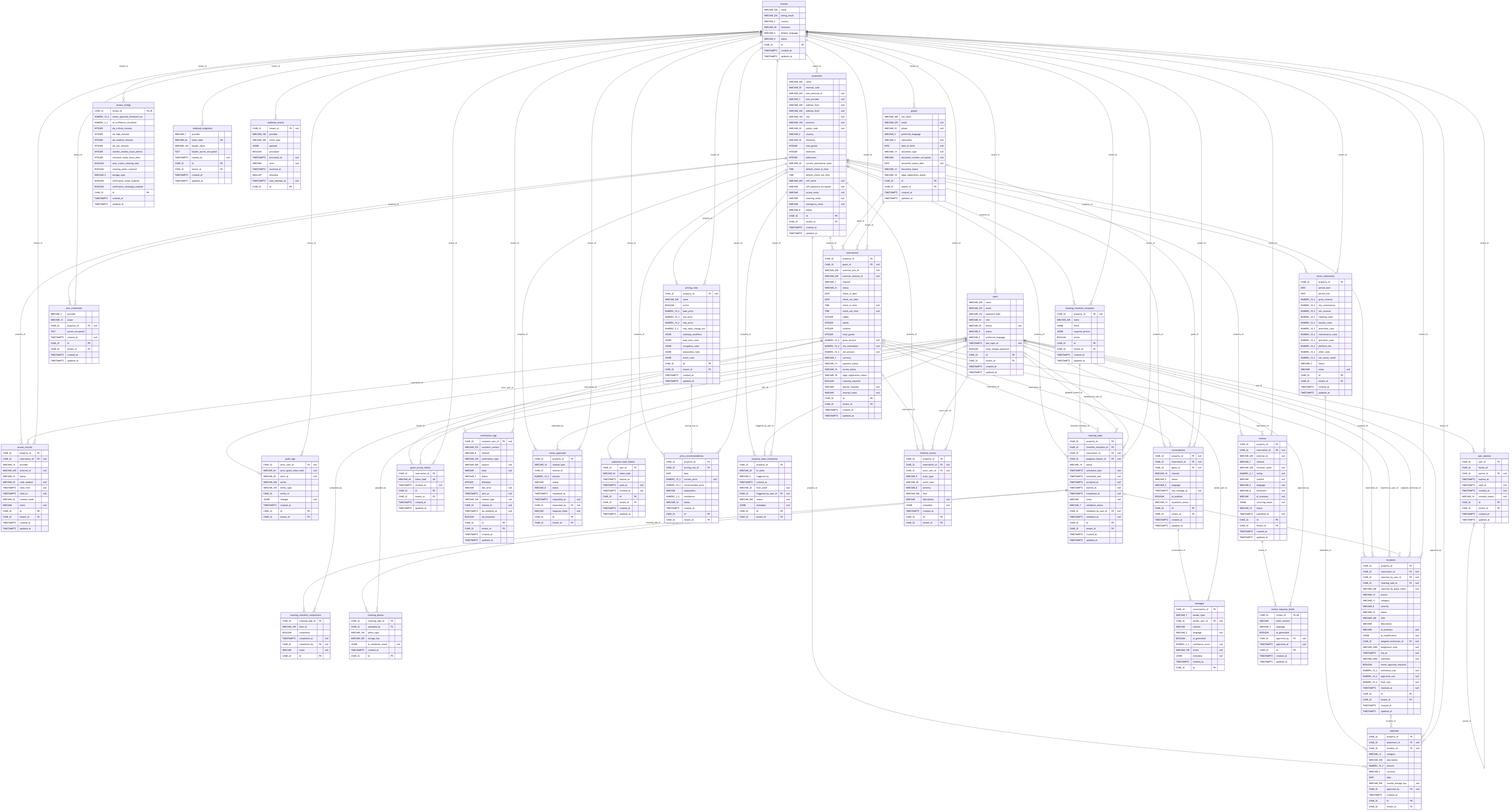
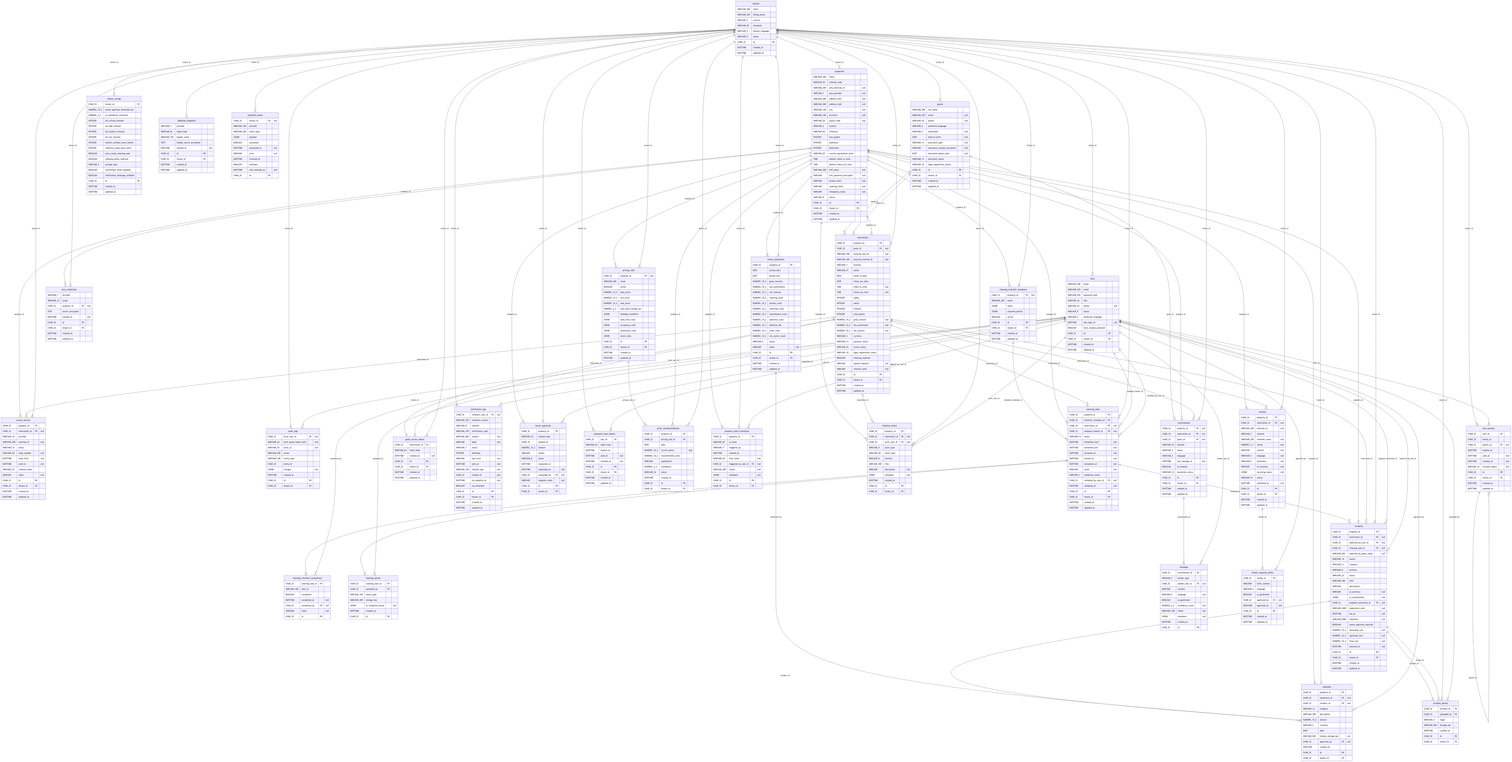
docs(maintenance): fotos de la incidencia y ER regenerado
- docs/maintenance.md — sección nueva «Las fotos de la incidencia»: las dos
  etapas, quién sube y quién lee, los tres 409, el tope y el formato por bytes,
  y por qué la URL firmada se abre en el navegador sin sesión. Se retira de «lo
  que este change no trae», que ya no es cierto, y se corrige el recuento de
  rutas cerradas a la limpiadora.
- docs/README.md, README.md — el almacén tiene dos llamantes y una capa de
  servido firmado compartida, no un llamante y dos consumidores prometidos.
- docs/diagrams/2026-08-23_autohost-er-entidades.png — regenerado desde la
  metadata de SQLAlchemy al entrar incident_photos: 32 entidades, 425 columnas,
  79 relaciones (77 pares), 82 flechas. Conserva el nombre porque se regenera
  el mismo día que el anterior, así que no hay PNG que borrar.

diff --git a/README.md b/README.md
@@ -281,7 +281,7 @@ A diferencia de la de firma, la de cifrado **no se regenera sola si ya hay un va
 
 ## Estructura
 
-- `backend/` — FastAPI + Celery (Python, `uv`). Dockerfile en `backend/devops/Dockerfile`. Código de dominio en `backend/app/<dominio>/` con las cuatro capas `domain/` → `application/` → `infrastructure/` → `api/` (regla de dependencia y fontanería en [`docs/adr/0004-backend-layering-pattern.md`](docs/adr/0004-backend-layering-pattern.md) y `sdd/steering/backend-architecture.md`). Son 17 dominios; los que todavía son **solo estructura de datos** —entidades y esquema, sin ningún caso de uso que los use— nacen con `domain/` + `infrastructure/` a secas, y ganan `application/`/`api/` cuando llega el primer caso de uso real: hoy `auth`, `properties`, `reservations`, `integrations`, `tenants`, `cleaning`, `access`, `guests`, `notifications`, `timeline`, `maintenance`, `messaging` y `pricing` son los que tienen las cuatro —`properties` ganó su `api/` con `properties-crud`; `access`, `guests` y `notifications` con `access-notifications`, que trajo la operación de accesos (PRD §15), el registro legal de huéspedes (§17) y la entrega de notificaciones (§14); y `timeline` con `dashboard-api`, que le añadió `application/` y `api/` de golpe: hasta entonces sus eventos los escribían los casos de uso de *otros* dominios y nadie los leía de vuelta (PRD §10). Ese mismo change añade el dominio **`dashboard`** —el decimoséptimo—, que es el lado de lectura del agregado de PRD §9 y el único con `domain/`, `application/` y `api/` pero **sin `infrastructure/` propia**: no tiene tabla ni entidad, compone los puertos de los otros siete dominios. **`maintenance` fue el caso simétrico y ya no lo es**: desde `guest-portal-api` tenía `domain/`, `application/` e `infrastructure/` y **ningún `api/`**, porque su único caso de uso —crear la incidencia que abre el huésped— se exponía por el router del portal. El change `maintenance` le da esa cuarta capa junto con el resto de su flujo: clasificación (automática por job y manual), triaje, aprobación de la propietaria por encima del umbral, asignación con plazo de SLA y el ciclo del técnico hasta el cierre. Son **dos routers y no uno** —`/incidents` y `/owner-approvals`— porque son dos agregados: una incidencia puede levantar dos aprobaciones, la del presupuesto y la del coste real (ver [`docs/maintenance.md`](docs/maintenance.md)). **`messaging` es el caso siguiente**: desde `domain-foundation-ops` tenía `domain/` + `infrastructure/` y ningún escritor, y el change `messaging-ai` le da `application/` y `api/` con la atención de primer nivel al huésped de PRD §13 — detección de idioma, clasificación de intent, seis condiciones de escalación, respuesta desde un catálogo cerrado de plantillas y los siete endpoints de bandeja de PRD §16, bajo un solo router `/conversations` porque `Conversation` es el agregado y un mensaje no tiene identidad fuera de su hilo. Los mensajes entran por el panel o por la API: **no hay ingesta automática desde OTA**, y una conversación de `AIRBNB_MSG`/`BOOKING_MSG` queda muda a propósito hasta que llegue `beds24-messaging-adapter` (ver [`docs/messaging-ai.md`](docs/messaging-ai.md)). **`pricing` es el último en ganar las cuatro capas**: desde `domain-foundation-financial` tenía `domain/` + `infrastructure/` y ningún escritor, y el change `revenue-pricing` le da `application/` y `api/` con el Modo 1 del PRD §19 — la fórmula determinista de PRD §7.17 con sus guardrails, un horizonte de 60 días por vivienda y la aprobación humana de cada precio. **El sistema recomienda y no publica**: quien aprueba sube el precio a la OTA a mano y lo marca `APPLIED_EXTERNAL`. Son **dos routers** —`/pricing-rules` y `/price-recommendations`— porque son dos agregados: la regla que edita una persona y el horizonte que reescribe el job nocturno (ver [`docs/pricing.md`](docs/pricing.md)). El **scheduler** vive en `backend/app/scheduler/` — capa de entrega para el reloj, el equivalente de `api/` para Celery beat: nueve tareas —las cuatro de PRD §8.3 más `dispatch_notifications`, `provision_access_records`, `process_webhook_events` y `classify_incidents`, que el PRD no nombra y declaran como divergencia `access-notifications`, `reservations-webhooks` y `maintenance`, más `generate_price_recommendations`, que **sí** es de PRD §8.3 y es la única que corre a una hora del día (06:00 UTC) en vez de por cadencia—, su calendario y el lock que evita solapes (ver [`docs/celery-jobs.md`](docs/celery-jobs.md)). Comandos operativos en `backend/app/cli/` y `backend/app/integrations/cli/`; adapters de sistemas externos en `backend/app/integrations/`, que además guarda las tablas `webhook_endpoints` y `webhook_events`; migraciones en `backend/alembic/`. Dentro de `integrations` vive también **`app/integrations/infrastructure/storage/`** — el almacenamiento de ficheros, con `LocalFileStorage` (escribe en el volumen `/app/media`) y `S3FileStorage` detrás del mismo puerto, y la factoría que elige uno u otro por el `storage_type` del tenant. Está en `integrations` y no en `cleaning` porque el puerto es compartido: las fotos de limpieza son hoy su único llamante, pero `maintenance` y `revenue` servirán sus propios objetos por él (ver [`docs/cleaning.md`](docs/cleaning.md)). **`backend/scripts/`** queda deliberadamente **fuera de `app/`**: son herramientas de un solo uso contra servicios externos (provisión y sondeo del sandbox de Channex — ver [`docs/channex-staging.md`](docs/channex-staging.md)) o de medición puntual (`measure_tenant_filter.py`) que no deben viajar en el paquete desplegado.
+- `backend/` — FastAPI + Celery (Python, `uv`). Dockerfile en `backend/devops/Dockerfile`. Código de dominio en `backend/app/<dominio>/` con las cuatro capas `domain/` → `application/` → `infrastructure/` → `api/` (regla de dependencia y fontanería en [`docs/adr/0004-backend-layering-pattern.md`](docs/adr/0004-backend-layering-pattern.md) y `sdd/steering/backend-architecture.md`). Son 17 dominios; los que todavía son **solo estructura de datos** —entidades y esquema, sin ningún caso de uso que los use— nacen con `domain/` + `infrastructure/` a secas, y ganan `application/`/`api/` cuando llega el primer caso de uso real: hoy `auth`, `properties`, `reservations`, `integrations`, `tenants`, `cleaning`, `access`, `guests`, `notifications`, `timeline`, `maintenance`, `messaging` y `pricing` son los que tienen las cuatro —`properties` ganó su `api/` con `properties-crud`; `access`, `guests` y `notifications` con `access-notifications`, que trajo la operación de accesos (PRD §15), el registro legal de huéspedes (§17) y la entrega de notificaciones (§14); y `timeline` con `dashboard-api`, que le añadió `application/` y `api/` de golpe: hasta entonces sus eventos los escribían los casos de uso de *otros* dominios y nadie los leía de vuelta (PRD §10). Ese mismo change añade el dominio **`dashboard`** —el decimoséptimo—, que es el lado de lectura del agregado de PRD §9 y el único con `domain/`, `application/` y `api/` pero **sin `infrastructure/` propia**: no tiene tabla ni entidad, compone los puertos de los otros siete dominios. **`maintenance` fue el caso simétrico y ya no lo es**: desde `guest-portal-api` tenía `domain/`, `application/` e `infrastructure/` y **ningún `api/`**, porque su único caso de uso —crear la incidencia que abre el huésped— se exponía por el router del portal. El change `maintenance` le da esa cuarta capa junto con el resto de su flujo: clasificación (automática por job y manual), triaje, aprobación de la propietaria por encima del umbral, asignación con plazo de SLA y el ciclo del técnico hasta el cierre. Son **dos routers y no uno** —`/incidents` y `/owner-approvals`— porque son dos agregados: una incidencia puede levantar dos aprobaciones, la del presupuesto y la del coste real (ver [`docs/maintenance.md`](docs/maintenance.md)). **`messaging` es el caso siguiente**: desde `domain-foundation-ops` tenía `domain/` + `infrastructure/` y ningún escritor, y el change `messaging-ai` le da `application/` y `api/` con la atención de primer nivel al huésped de PRD §13 — detección de idioma, clasificación de intent, seis condiciones de escalación, respuesta desde un catálogo cerrado de plantillas y los siete endpoints de bandeja de PRD §16, bajo un solo router `/conversations` porque `Conversation` es el agregado y un mensaje no tiene identidad fuera de su hilo. Los mensajes entran por el panel o por la API: **no hay ingesta automática desde OTA**, y una conversación de `AIRBNB_MSG`/`BOOKING_MSG` queda muda a propósito hasta que llegue `beds24-messaging-adapter` (ver [`docs/messaging-ai.md`](docs/messaging-ai.md)). **`pricing` es el último en ganar las cuatro capas**: desde `domain-foundation-financial` tenía `domain/` + `infrastructure/` y ningún escritor, y el change `revenue-pricing` le da `application/` y `api/` con el Modo 1 del PRD §19 — la fórmula determinista de PRD §7.17 con sus guardrails, un horizonte de 60 días por vivienda y la aprobación humana de cada precio. **El sistema recomienda y no publica**: quien aprueba sube el precio a la OTA a mano y lo marca `APPLIED_EXTERNAL`. Son **dos routers** —`/pricing-rules` y `/price-recommendations`— porque son dos agregados: la regla que edita una persona y el horizonte que reescribe el job nocturno (ver [`docs/pricing.md`](docs/pricing.md)). El **scheduler** vive en `backend/app/scheduler/` — capa de entrega para el reloj, el equivalente de `api/` para Celery beat: nueve tareas —las cuatro de PRD §8.3 más `dispatch_notifications`, `provision_access_records`, `process_webhook_events` y `classify_incidents`, que el PRD no nombra y declaran como divergencia `access-notifications`, `reservations-webhooks` y `maintenance`, más `generate_price_recommendations`, que **sí** es de PRD §8.3 y es la única que corre a una hora del día (06:00 UTC) en vez de por cadencia—, su calendario y el lock que evita solapes (ver [`docs/celery-jobs.md`](docs/celery-jobs.md)). Comandos operativos en `backend/app/cli/` y `backend/app/integrations/cli/`; adapters de sistemas externos en `backend/app/integrations/`, que además guarda las tablas `webhook_endpoints` y `webhook_events`; migraciones en `backend/alembic/`. Dentro de `integrations` vive también **`app/integrations/infrastructure/storage/`** — el almacenamiento de ficheros, con `LocalFileStorage` (escribe en el volumen `/app/media`) y `S3FileStorage` detrás del mismo puerto, y la factoría que elige uno u otro por el `storage_type` del tenant. Está en `integrations` y no en `cleaning` porque el puerto es compartido, y desde `incident-photos` (2026-08-23) esa razón ya está cobrada: sus llamantes son **dos** —las fotos de limpieza y las fotos de incidencia de `maintenance`—, y `revenue` (`expenses.receipt_storage_key`) sigue nombrado como el siguiente. Junto al almacenamiento vive también la **capa de servido firmado compartida** (`app/integrations/application/signed_serving.py` y `app/integrations/api/signed_media.py`): el cuerpo `403` constante, el `nosniff` y el `Cache-Control` derivado de la firma se escriben una vez y los dos dominios montan su ruta anónima con ella (ver [`docs/cleaning.md`](docs/cleaning.md) y [`docs/maintenance.md`](docs/maintenance.md)). **`backend/scripts/`** queda deliberadamente **fuera de `app/`**: son herramientas de un solo uso contra servicios externos (provisión y sondeo del sandbox de Channex — ver [`docs/channex-staging.md`](docs/channex-staging.md)) o de medición puntual (`measure_tenant_filter.py`) que no deben viajar en el paquete desplegado.
 - `frontend/` — Next.js App Router (TypeScript strict, Tailwind, shadcn/ui, TanStack Query, Zustand, react-i18next ES/EN). Application Shell organizado por capas `app/` → `features/` → `components/`·`lib/`. En `app/` vive además la **única pieza de servidor del frontend**: `app/api/[...path]/route.ts`, el proxy same-origin que reenvía `/api/` al backend por la red interna — es lo que hace que el navegador alcance la API sin exponer el backend, y su alcance está fijado por `app/proxy-scope.test.ts` ([`docs/ingress-https.md`](docs/ingress-https.md)). Convenciones detalladas en [`frontend/README.md`](frontend/README.md). Dockerfile en `frontend/devops/Dockerfile`.
 - `docker-compose.yml` / `Makefile` — orquestación del stack **local** (build local, hot-reload), en la raíz.
 - `docker-compose.worktree.yml` — overlay que **retira la publicación de puertos** en el host. `make up` lo añade solo cuando detecta un worktree enlazado de git **y no se pidió desplazamiento**, para que varios stacks de desarrollo convivan sin chocar. El worktree principal no lo usa y el CD no lo ve nunca.

diff --git a/docs/maintenance.md b/docs/maintenance.md
@@ -89,6 +89,8 @@ y el técnico repite el cierre. Cerrarla por él haría que `resolved_at` dejara
 | Ver el contexto de una incidencia (a qué piso y cómo entrar) | ✔ | ✔ | ✔ sólo las suyas | — |
 | Clasificar, triar, asignar, cancelar | — | ✔ | — | — |
 | Aceptar, empezar, esperar piezas, reanudar, resolver | — | ✔ | ✔ sólo las suyas | — |
+| Ver las fotos de una incidencia | ✔ | ✔ | ✔ sólo las suyas | — |
+| Subir fotos a una incidencia (antes / después) | — | ✔ | ✔ sólo las suyas | — |
 | Responder una aprobación | ✔ | — | — | — |
 | Abrir una incidencia desde su propia limpieza | — | — | — | ✔ |
 
@@ -100,7 +102,7 @@ Tres cosas que no se ven en la tabla y conviene saber:
 - **El manager también puede conducir el ciclo del técnico**, para desatascar. Es la única
   diferencia con limpieza, donde ejecutar es sólo de la limpiadora.
 - **La limpiadora abre incidencias y no lee ninguna**, y esa fila de la tabla es toda su
-  relación con este módulo. Las once rutas de `/api/v1/incidents` le siguen respondiendo `403`;
+  relación con este módulo. Las quince rutas de `/api/v1/incidents` le siguen respondiendo `403`;
   lo que puede hacer vive en otro sitio y se describe abajo. **Con una señal indirecta que
   conviene no negar**: al cerrar su limpieza puede recibir un `409` que le dice que en esa
   vivienda hay una incidencia `CRITICAL` sin resolver. Es un bit —existe o no—, sin id, sin
@@ -135,6 +137,58 @@ Cómo se opera, y qué decide el sistema en lugar de quien llama:
 La incidencia nace `MEDIUM` y el cierre solo lo frena una `CRITICAL` sin resolver **en la
 vivienda**, así que empieza a bloquear si el clasificador la sube — o si ya había otra. El detalle
 está en [`cleaning.md`](cleaning.md).
+
+## Las fotos de la incidencia
+
+`POST` y `GET /api/v1/incidents/{incident_id}/photos`. PRD §6 le concede al técnico «subir fotos
+(antes y después)» y PRD §12 lo pide dos veces; esto es esa evidencia, y nada más. El *qué hace*
+está en [`sdd/specs/incident-photos.md`](../sdd/specs/incident-photos.md).
+
+**Dos etapas y sólo dos**: `BEFORE` (la de llegada) y `AFTER` (la de cierre). Es un enum cerrado,
+no un texto: cualquier otro valor responde `422`. A diferencia de las fotos de limpieza, aquí no
+hay plantilla que declare los tipos admisibles, así que el conjunto lo fija el dominio.
+
+Cómo se opera:
+
+- **Sube el técnico asignado**, y también el manager para desatascar. Se pide `EXECUTE_INCIDENTS`,
+  el mismo permiso que el resto de su ciclo — no hay permiso nuevo. La propietaria **no** sube.
+- **Lee quien puede leer la incidencia**: propietaria, manager y el técnico asignado
+  (`READ_INCIDENTS`). Leer la evidencia es lo que hacen los dos primeros; subirla es del técnico.
+- **Sólo mientras el trabajo está vivo**: con la incidencia en `IN_PROGRESS` o
+  `WAITING_EXTERNAL_PARTS`. Sobre una incidencia esperando la aprobación de la propietaria, o ya
+  resuelta o cancelada, responde `409` — con tres mensajes distintos, para que se sepa cuál de los
+  tres casos es— y **no escribe nada**: ni fila ni objeto.
+- **Varias fotos de la misma etapa valen.** Dos ángulos de la misma avería es el caso normal, no un
+  error.
+- **El formato se decide por los bytes**, nunca por lo que declare el cliente: fuera de la
+  allowlist es `422`, y por encima de 10 MB es `413` (el mismo tope que las fotos de limpieza,
+  aplicado **antes** de leer el cuerpo).
+- **El listado va de la más antigua a la más reciente**, y cada foto llega con una `url` firmada
+  **acuñada para esa respuesta**, con caducidad. No se guarda ni se comparte: cuando caduque, se
+  vuelve a listar. La clave interna del objeto (`storage_key`) no sale en ningún cuerpo.
+- Una incidencia inexistente, de otro tenant, o asignada a otro técnico dan el **mismo `404`**, con
+  el mismo cuerpo, igual que el resto del módulo.
+
+**La URL firmada se abre en el navegador sin sesión, y eso es a propósito.** Con el tenant en
+`storage_type = LOCAL` los bytes los sirve `GET /api/v1/incident-photos/{photo_id}`, que es
+**anónima**: un `<img src>` no manda cabecera `Authorization`, así que exigir el token haría la URL
+inservible para lo único que existe. **La firma es la credencial** — cubre la clave completa, que
+empieza por el `tenant_id`. Una firma inválida, caducada, manipulada o que nombre una foto que no
+existe dan todas el **mismo `403`**, con el mismo cuerpo, para que la ruta no sirva de sonda de qué
+fotos hay. Con el tenant en `S3` esa ruta responde `404`: el navegador va directo al proveedor.
+
+Dos avisos para quien opera:
+
+- **No hay borrado.** Ninguna ruta de la API borra una foto. Una subida por error se queda, y el
+  único borrado que existe es el compensatorio interno cuando la transacción falla después de
+  escribir el objeto. Habrá superficie de borrado cuando haya una decisión de retención, no antes.
+- **Cerrar no exige foto.** `resolve` sigue pidiendo únicamente `final_cost`, así que una incidencia
+  puede resolverse sin ninguna `AFTER`. Es una decisión, no un olvido: poner la puerta cambia la
+  tabla de transiciones y el contrato publicado.
+
+Cada subida deja su fila en `audit_logs` con actor e IP, contra la **propia foto** y no contra la
+incidencia — y **sin** la clave de almacenamiento. No genera evento de timeline: el vocabulario de
+PRD §10 no tiene un tipo para una foto de incidencia, y la subida de limpieza tampoco escribe uno.
 
 ## El job de clasificación
 
@@ -241,10 +295,15 @@ Cada transición deja su fila en `audit_logs` y su hito en el timeline de la pro
 
 ## Lo que este change no trae
 
-Fotos de la incidencia (el patrón es el de `cleaning-photos-storage`), el `Expense` al
-resolver (es de `revenue`), la expiración automática de una aprobación, la UI del técnico
-(`tech-app`), la detección del intent desde la mensajería (`messaging-ai`) y la alerta de
-cerradura como fuente. Cada uno tiene dueño declarado en el proposal del change.
+El `Expense` al resolver (es de `revenue`), la expiración automática de una aprobación, la UI del
+técnico (`tech-app`), la detección del intent desde la mensajería (`messaging-ai`) y la alerta de
+cerradura como fuente. Cada uno tiene dueño declarado en el proposal del change. **Las fotos de la
+incidencia sí llegaron**, con `incident-photos` (2026-08-23), y están descritas arriba: el patrón
+fue el de `cleaning-photos-storage`, como estaba previsto, y la capa de servido firmado se extrajo
+a `app/integrations/` para que los dos dominios la compartan en vez de duplicarla. Lo que **no**
+trajeron es validación por IA de la foto (`ai_validation_result` sigue sin escritor) ni foto en el
+alta de la incidencia: «fotos del incidente» de PRD §12 son las `BEFORE` que sube el propio
+técnico, no las de quien reportó.
 
 De la ruta de la limpiadora falta **su pantalla**: la API existe y el botón lo pone `cleaner-app`,
 que declara `cleaner-incident-report` en su `needs`. Y ella sigue sin poder leer, listar ni seguir

diff --git a/docs/README.md b/docs/README.md
@@ -11,7 +11,7 @@ Documentación extendida de la aplicación, mantenida por el flujo SDD: al archi
 - **[`access-notifications.md`](access-notifications.md)** — cómo se operan la entrega de notificaciones (PRD §14), el registro de accesos del huésped (§15) y la capa operativa de SES.Hospedajes (§17): canales y sus adapters, la bandeja in-app, la máquina de estados del acceso y por qué el código en claro no se guarda, el flujo del registro legal y **qué hace falta antes de conectar Chekin** (DPA, retención, webhooks sin firma).
 - **[`reservations-webhooks.md`](reservations-webhooks.md)** — cómo se **opera** la vía por la que el PMS avisa de que una reserva cambió: acuñar la URL y el secreto de cabecera de un tenant, pegarlos en el proveedor (por panel o por API, que Beds24 y Channex tienen las dos), rotarlos sin ventana de gracia, y por qué eso no pierde reservas (el sondeo de `pms_sync` es el suelo). Incluye el diagnóstico del `404` **deliberadamente indistinguible** del receptor, los dos límites de tasa y sus propósitos opuestos, y los dos redactores de datos de tarjeta con sus bordes aceptados. La regla que lo explica todo: **el aviso nunca es la fuente de verdad**, se relee por API.
 - **[`guest-portal.md`](guest-portal.md)** — cómo se **opera** el enlace que el huésped recibe: acuñar y revocar el token de una estancia (y por qué el valor en claro solo existe una vez), qué ve el huésped y qué nunca sale por ahí, los dos límites de abuso y sus propósitos opuestos, y el diagnóstico de un `404` **deliberadamente indistinguible** que por tanto no diagnostica nada — se mira la fila, no la respuesta. Incluye **las dos advertencias simétricas** que son la misma en los dos sentidos: lo que el operador escribe en las notas de llegada se le enseña al huésped tal cual, y lo que el huésped escribe en una incidencia se le enseña al operador tal cual.
-- **[`maintenance.md`](maintenance.md)** — cómo se **opera** una incidencia de punta a punta (PRD §12): la clasificación automática por job y por qué no va dentro de la petición que la crea, el triaje, **las dos puertas de la propietaria** —la del presupuesto y la del coste real, y por qué son dos—, la asignación con su plazo de SLA y el ciclo del técnico hasta el cierre. Incluye quién puede hacer qué (y las dos cosas que no se ven en la tabla: que el técnico sólo ve las suyas con un `404` indistinguible, y que el manager puede conducir su ciclo para desatascar), qué se guarda de lo que escribe la gente, y la advertencia simétrica a la de `guest-portal.md`: lo que el huésped teclee en la descripción se le enseña al técnico tal cual.
+- **[`maintenance.md`](maintenance.md)** — cómo se **opera** una incidencia de punta a punta (PRD §12): la clasificación automática por job y por qué no va dentro de la petición que la crea, el triaje, **las dos puertas de la propietaria** —la del presupuesto y la del coste real, y por qué son dos—, la asignación con su plazo de SLA y el ciclo del técnico hasta el cierre. Incluye quién puede hacer qué (y las dos cosas que no se ven en la tabla: que el técnico sólo ve las suyas con un `404` indistinguible, y que el manager puede conducir su ciclo para desatascar), las **fotos de la incidencia** (las dos etapas, quién sube y quién lee, y por qué la URL firmada se abre en el navegador sin sesión), qué se guarda de lo que escribe la gente, y la advertencia simétrica a la de `guest-portal.md`: lo que el huésped teclee en la descripción se le enseña al técnico tal cual.
 - **[`messaging-ai.md`](messaging-ai.md)** — cómo se **opera** la bandeja de conversaciones (PRD §13, §16): el ciclo de un mensaje entrante de punta a punta en una sola transacción, **qué escala y en qué orden** (y por qué el orden importa: lo que se registra es la primera condición que casa), las dos cosas que sorprenden —apagar la IA no apaga la alarma, y una vez escalada la IA deja de contestar—, quién puede hacer qué (la propietaria lee y no opera), y **por qué una conversación de `AIRBNB_MSG`/`BOOKING_MSG` queda muda por diseño** en vez de caer en silencio a consola. Incluye qué se guarda de lo que escribe la gente y la advertencia simétrica a la de `guest-portal.md`: lo que el huésped diga se le enseña al operador tal cual.
 - **[`seed-demo.md`](seed-demo.md)** — cómo se llena un entorno recién levantado con el dataset de PRD §27 (`make up` → `make bootstrap` → `make seed-demo`): qué siembra y qué deja fuera a propósito, por qué **las credenciales de §27 son las que pongas en tu `.env`** y no algo que el comando imponga, y la consecuencia de que el dataset **envejezca** — un entorno sembrado hace semanas enseña una reserva «activa» que ya terminó, y volver a sembrar no la re-ancla; se tira la base. Incluye las cosas que sorprenden: que los tres estados iniciales no sean el mismo, el único huésped sin clave de identidad, y por qué el fixture del `MockPMSAdapter` contiene otra versión de estas mismas reservas sin que ninguna esté mal.
 - **`adr/`** — Architecture Decision Records, numerados `NNNN-slug.md`. Registran decisiones estructurales con su contexto, sus consecuencias y las alternativas rechazadas. Cuando una decisión se aparta del PRD, **el PRD no se edita**: la desviación vive en el ADR y llega a las specs al archivar el change que la implemente.
